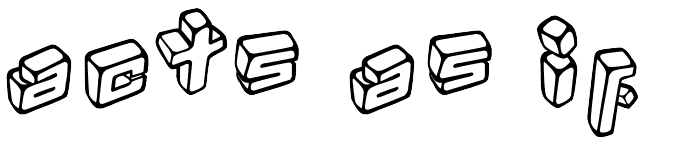
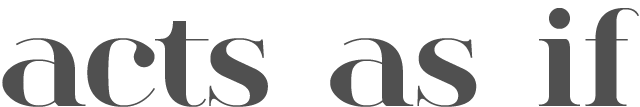
stylin

diff --git a/themes/actsasif/style.sass b/themes/actsasif/style.sass
@@ -1,0 +1,136 @@
+.clear
+  :clear both
+  :float none
+  :font-size 7px
+
+
+body
+  :font-family sans-serif
+  :font-size 90%
+  :margin 0
+  :padding 0
+
+
+h1
+  :color #444
+  :margin 0px
+  :height 150px
+
+pre
+  :color #444
+  :font-size 110%
+  :white-space pre-wrap
+  :white-space -moz-pre-wrap !important
+  :padding 1em
+  :border 4px solid #fafafa
+
+
+a
+  :color #104EFF
+
+
+ul
+  :margin 0
+  :padding 0
+
+
+li
+  :list-style-type none
+  :margin-bottom 1em
+
+  span.perex
+    :font-size 95%
+    :color #444
+
+
+#article .body
+  :border-bottom 1px solid #ccc
+
+
+.comment
+  :margin 1em 0 1em 0
+  :border-bottom 1px solid #fafafa
+
+
+#comment_added_thanks
+  :background #bcfa96
+  :padding 0.2em 0.2em 0.2em 0.5em
+
+// Acts As If
+
+body
+  :font-family Verdana, Geneva, Arial, sans-serif
+
+a
+  :color #005
+  :text-decoration none
+  :border-bottom 1px dotted #505050
+
+#container
+  :width 950px
+  :margin 0px auto
+
+  h1
+    :background url('../images/actsasif.png') center center no-repeat
+    :border-bottom 2px solid #505050
+    
+    span
+      :display none
+      
+  .tagline
+    :color #505050
+    :font-size 10pt
+    :padding 2px 0
+    :text-align center
+    :border-bottom 1px solid #505050
+
+  #content
+    
+    #posts
+      :width 650px
+      :margin-right 10px
+      :padding 20px 15px 20px 0
+      :float left
+      :height 100%
+      :color #505050
+      :border-right 1px solid #c0c0c0
+      
+      a
+        :padding 0
+        
+      .title
+        :font-size 120%
+        :text-decoration none
+        :font-weight bold
+
+      .meta
+        :font-size 80%
+
+      .date
+        :display none
+      
+      a.continue
+        :font-size 80%
+
+    .intro
+      :color #202020
+      :margin-top 5px
+
+  #sidebar
+    :color #404040
+    :padding-top 25px
+    :width 250px
+    :float left
+    :font-size 90%
+    
+    p.bio
+      :margin-top 0px
+    
+  #footer
+    :clear both
+    :text-align center
+    :border-top 1px solid #505050
+    :border-bottom 2px solid #505050
+    :color #505050
+    :font-size 10pt
+    :padding 2px 0
